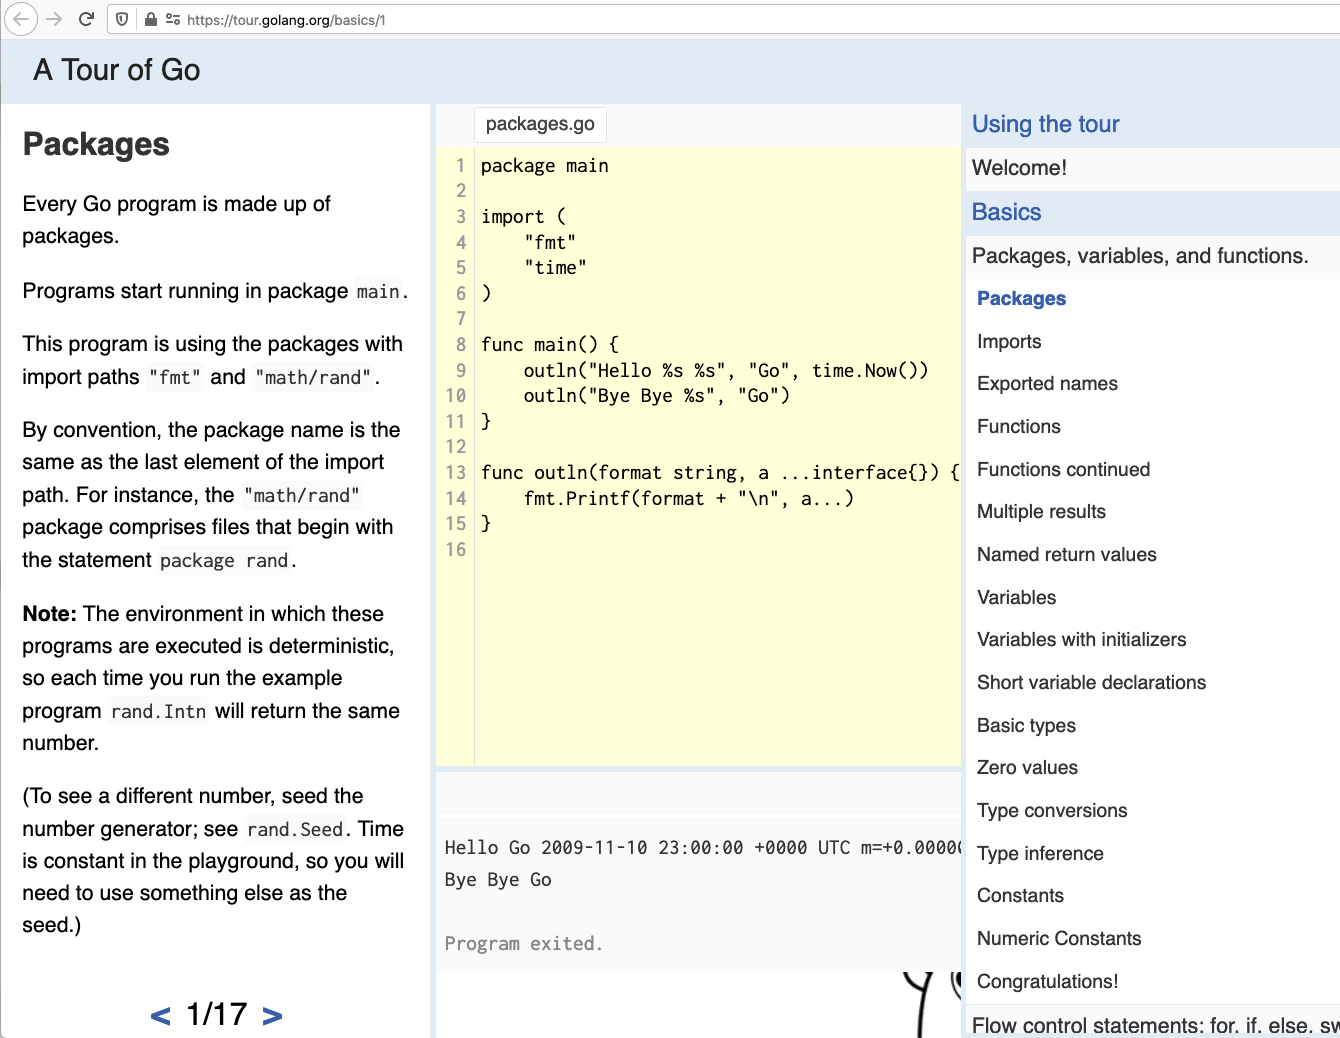
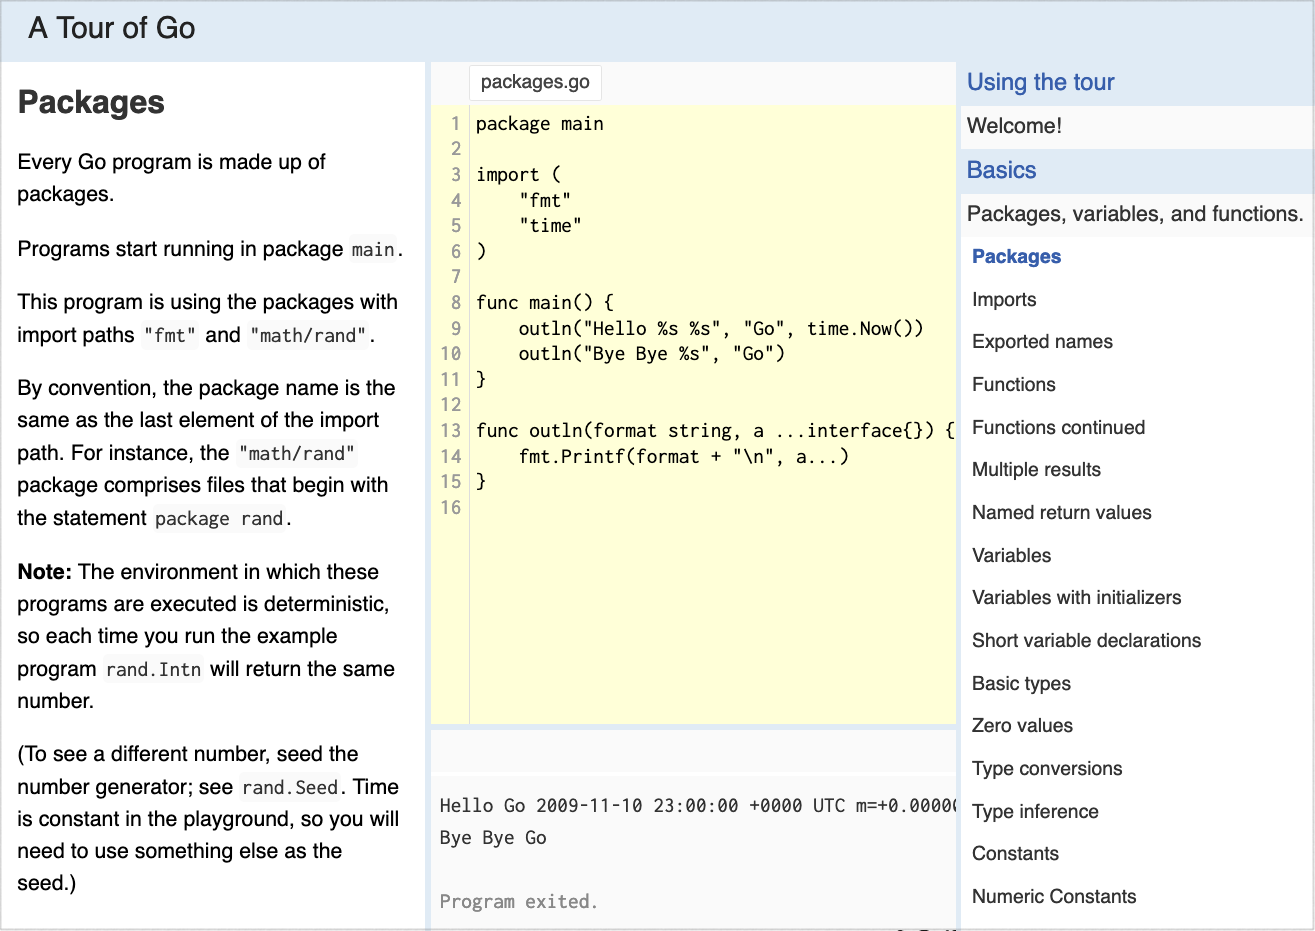
bench

Changed region(s): [[0.0, 0.0, 1.0, 1.0]]

diff --git a/markdown/getting-started-with-go.md b/markdown/getting-started-with-go.md
@@ -29,7 +29,7 @@ This article describes my experience as a new user of Go, building my first Go l
 
 The [Tour of Go](https://tour.golang.org/basics/1) is a great way to get familiar with the language syntax. I started with 'hello world' at [golang.org](https://golang.org/doc/tutorial/getting-started#install), and found myself going back to the tour for different topics.
 
-[![Screenshot of the Go Tour showing code and navigation](/images/go-tour.png)](https://tour.golang.org/basics/1)
+[![Screenshot of the Go Tour showing code and navigation](/images/go-tour.png ".no-border")](https://tour.golang.org/basics/1)
 
 The macOS [installer](https://golang.org/doc/manage-install) copies everything into `/usr/local/go`, so I opted to download the latest release from https://golang.org/dl/ into a versioned [$GOROOT](https://golang.org/doc/install/source#environment) under my home directory. Here's what I have in my '.bash_profile':
 
@@ -168,6 +168,35 @@ var numwords = map[uint64]string{
 	1_000_000_000_000_000: "quadrillion",
 }
 ```
+
+## Tests and benchmarks
+
+The [testing](https://pkg.go.dev/testing) package provides support for running tests and benchmarks with `go test`. The GitHub Action [workflow](https://github.com/jldec/shortscale-go/blob/main/.github/workflows/ci.yaml#L25) for shortscale-go make use of this.
+
+Out of curiosity, I ran [BenchmarkShortscale](https://github.com/jldec/shortscale-go/blob/358a49f24dcb9d4b2c697233f37f5dea4c87d318/shortscale_test.go#L18) for two variants of the Shortscale function, one which [pre-allocates](https://github.com/jldec/shortscale-go/blob/358a49f24dcb9d4b2c697233f37f5dea4c87d318/shortscale.go#L18) memory for string.Builder, and one which does not. Pre-allocating, reduced the number of allocs/op from 6 to 1, improving ns/op by about 150ns.
+
+**Pre-allocated**
+```
+$ go test -bench . -benchmem
+goos: darwin
+goarch: amd64
+pkg: github.com/jldec/shortscale-go
+cpu: Intel(R) Core(TM) i7-9750H CPU @ 2.60GHz
+
+2428737	       484.7 ns/op	     240 B/op	       1 allocs/op
+```
+
+**Not pre-allocated**
+```
+$ go test -bench . -benchmem
+goos: darwin
+goarch: amd64
+pkg: github.com/jldec/shortscale-go
+cpu: Intel(R) Core(TM) i7-9750H CPU @ 2.60GHz
+
+1839627	       642.7 ns/op	     504 B/op	       6 allocs/op
+```
+
 
 ## Dependency management
 
